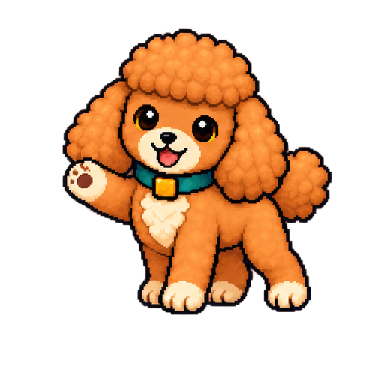
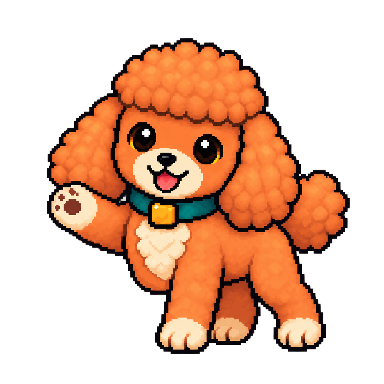
fix: 푸들 정원 팩 캐릭터 그림을 앱에 싣는다
그림 파일은 저장소에 있었지만 pubspec 에 빠져 있어, 팩을 고르면 캐릭터
자리에 «Unable to load asset» 오류 그림이 떴다. 여섯 포즈를 모두 싣고
guide 포즈 그림을 다듬는다. 번들 예산 테스트도 이 폴더를 센다.

diff --git a/flutter_app/test/bundled_assets_budget_test.dart b/flutter_app/test/bundled_assets_budget_test.dart
@@ -15,6 +15,7 @@ void main() {
   const bundledDirs = [
     'assets/decorations',
     'assets/characters/cat_starlight/v1/approved',
+    'assets/characters/poodle_garden/v1/approved',
     'assets/routine_icons',
   ];
 
